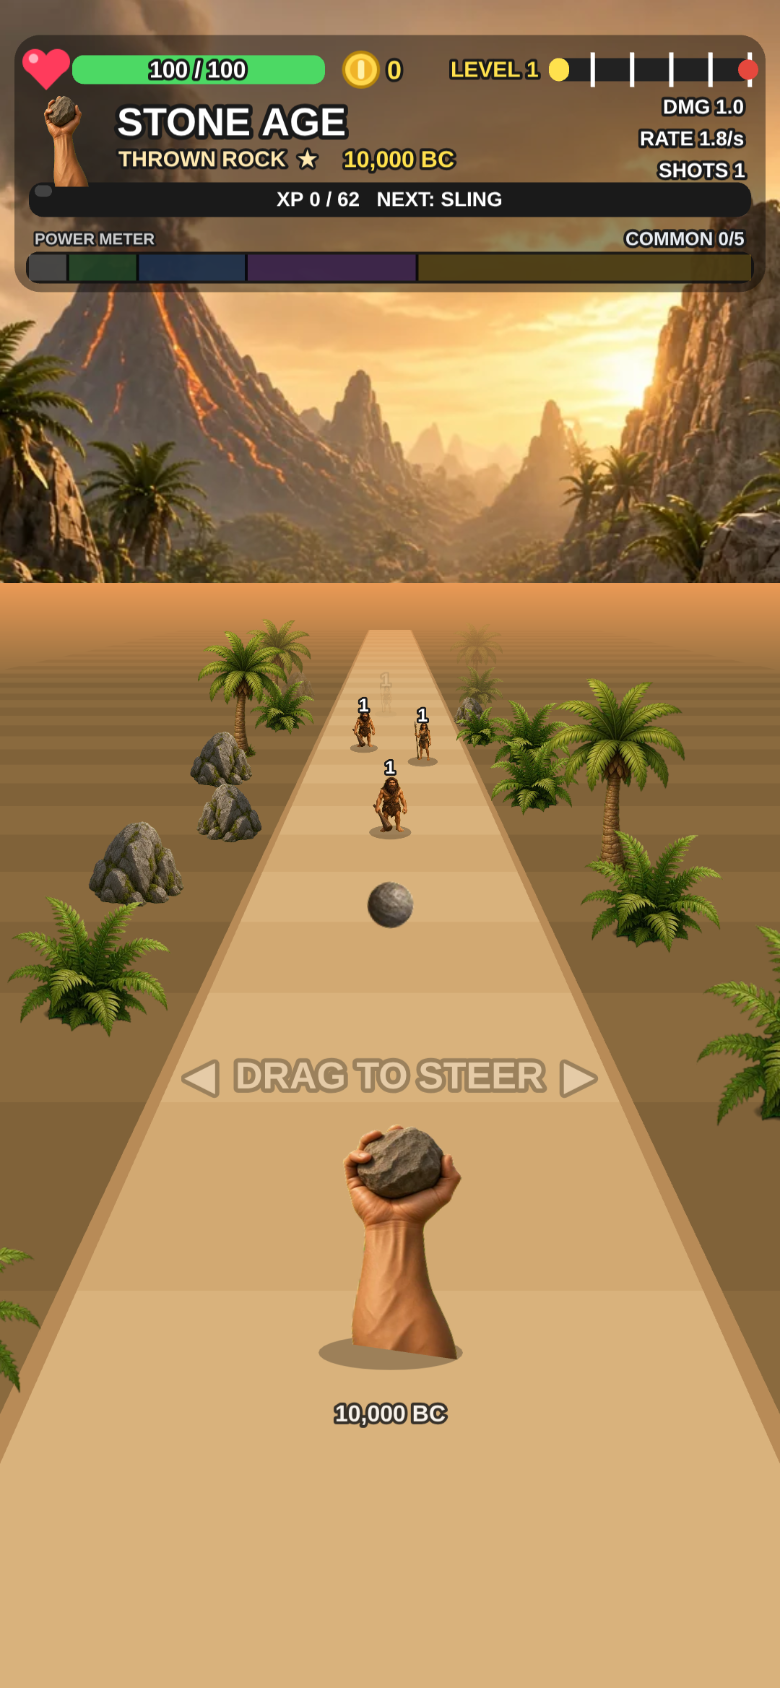
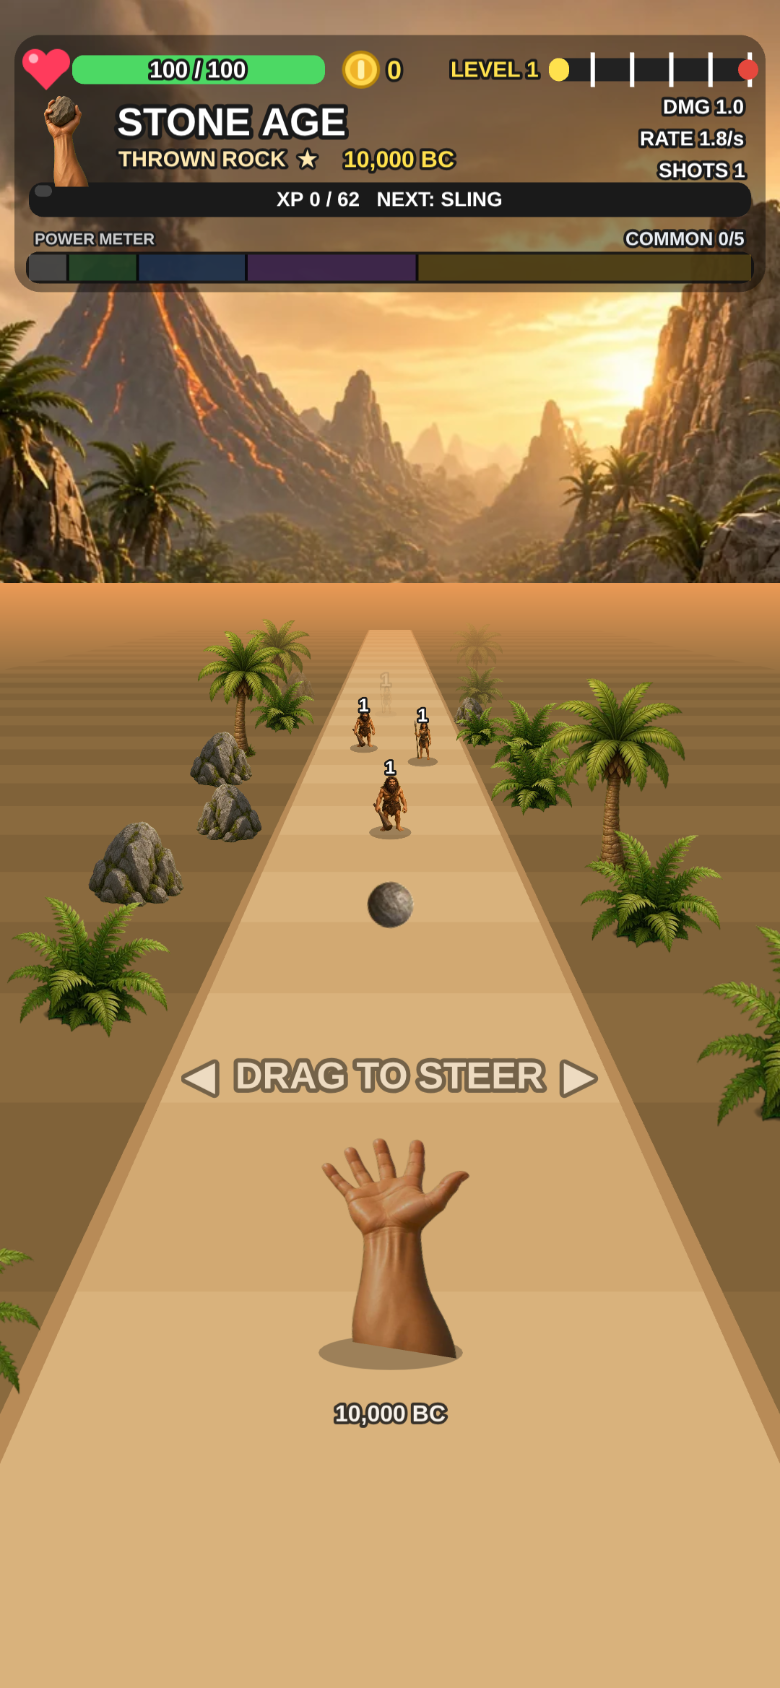
Thrown Rock: empty open-hand art at release (color-matched, wrist-aligned)

Changed region(s): [[0.2462, 0.6161, 0.7692, 0.8009], [0.4923, 0.5237, 0.5231, 0.5545], [0.4923, 0.4621, 0.5231, 0.4929]]

diff --git a/src/scenes/Boot.js b/src/scenes/Boot.js
@@ -562,7 +562,7 @@ const ERA_ART = {
   stone: [
     ['enemy', 'enemy_stone'], ['enemy_b', 'enemy_stone_b'], ['enemy_big', 'enemy_stone_big'], ['enemy_charger', 'enemy_stone_charger'],
     ['block', 'block_stone'], ['crate', 'crate_stone'], ['boss', 'boss_stone', 2],
-    // add ['weapon_rock_open', 'weapon_rock_open', 1, 1.5] once art/rockhand_open exists (empty hand at release)
+    ['weapon_rock_open', 'weapon_rock_open', 1, 1.5], // empty hand shown at release
     ['weapon_rock', 'weapon_rock', 1, 1.5], ['weapon_sling', 'weapon_stone', 1, 1.5],
     ['p_pebble', 'p_pebble'], ['p_rock', 'p_rock'], ['bp_rock', 'bp_rock'],
     ['bg', 'bg_stone'], ['decor_fern', 'decor_stone_fern'], ['decor_rocks', 'decor_stone_rocks'], ['decor_palm', 'decor_stone_palm'],

diff --git a/art/build_stone.py b/art/build_stone.py
@@ -68,8 +68,40 @@ save(fit(key_green(src('mammoth.jpg')), 1040, 880, fill=0.98), 'boss', q=86)
 # --- weapons: 220x300 box, origin (0.5, 0.92) in game; the hand runs off the bottom edge
 save(fit(key_green(src('sling.jpg')), 220, 300, fill=1.0), 'weapon_sling')
 save(fit(key_green(src('rockhand.jpg')), 220, 300, fill=0.95), 'weapon_rock')
-if os.path.exists(os.path.join(SRC, 'rockhand_open.jpg')):  # optional: hand just after release
-    save(fit(key_green(src('rockhand_open.jpg')), 220, 300, fill=0.95), 'weapon_rock_open')
+def wrist(img):
+    """(width, center x) of the arm where it leaves the bottom of a trimmed sprite."""
+    al = np.asarray(img.getchannel('A'))[-max(3, img.height // 40):] > 128
+    xs = np.where(al.any(0))[0]
+    return xs.max() - xs.min() + 1, (xs.max() + xs.min()) / 2
+
+if os.path.exists(os.path.join(SRC, 'rockhand_open.jpg')):
+    # empty hand at release: color-matched to the closed hand, scaled/placed so the wrists line up
+    closed = trim(key_green(src('rockhand.jpg')))
+    W, H, FILL = 220, 300, 0.95
+    sc_c = min(W * FILL / closed.width, H * FILL / closed.height)
+    cw, ccx = wrist(closed)
+    cx_final = (W - round(closed.width * sc_c)) // 2 + ccx * sc_c   # closed wrist center in the canvas
+    opened = trim(key_green(src('rockhand_open.jpg')))
+    # per-channel gain so the open hand's average skin matches the closed hand's
+    def skin_mean(im):
+        a = np.asarray(im).astype(np.float32); m = a[..., 3] > 200
+        rgb = a[..., :3][m]; mx, mn = rgb.max(1), rgb.min(1)
+        sk = rgb[(mx - mn) / np.maximum(mx, 1) > 0.25]           # warm skin, not grey rock
+        return sk.mean(0)
+    gain = skin_mean(closed) / skin_mean(opened)
+    a = np.asarray(opened).astype(np.float32); a[..., :3] = np.clip(a[..., :3] * gain, 0, 255)
+    opened = Image.fromarray(a.astype(np.uint8), 'RGBA')
+    ow, ocx = wrist(opened)
+    sc_o = (cw * sc_c) / ow
+    nw, nh = round(opened.width * sc_o), round(opened.height * sc_o)
+    o2 = premult_resize(opened, (nw, nh))
+    can = Image.new('RGBA', (W, H), (0, 0, 0, 0))
+    can.alpha_composite(o2.crop((0, max(0, nh - H), nw, nh)) if nh > H else o2, (0, 0)) if False else None
+    x = round(cx_final - ocx * sc_o); y = H - nh
+    can.paste(o2, (x, y), o2)
+    print('open hand gain', np.round(gain, 3), 'scale', round(sc_o / sc_c, 3))
+    save(can, 'weapon_rock_open')
+
 # --- props sheet (2x2): crate, boulder, fern, rocks
 props = key_green(src('props.jpg'))
 save(fit(crop_frac(props, 0, 0, .5, .5), 260, 224, fill=0.92), 'crate')
